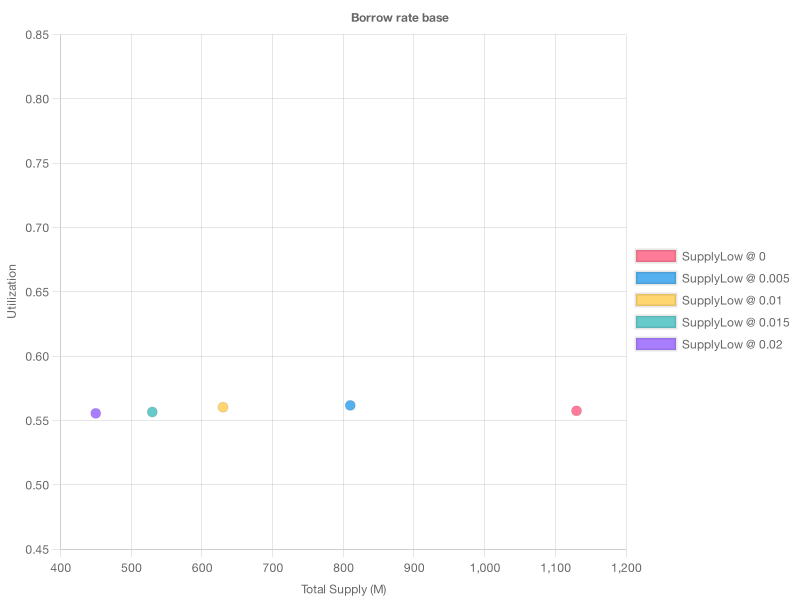
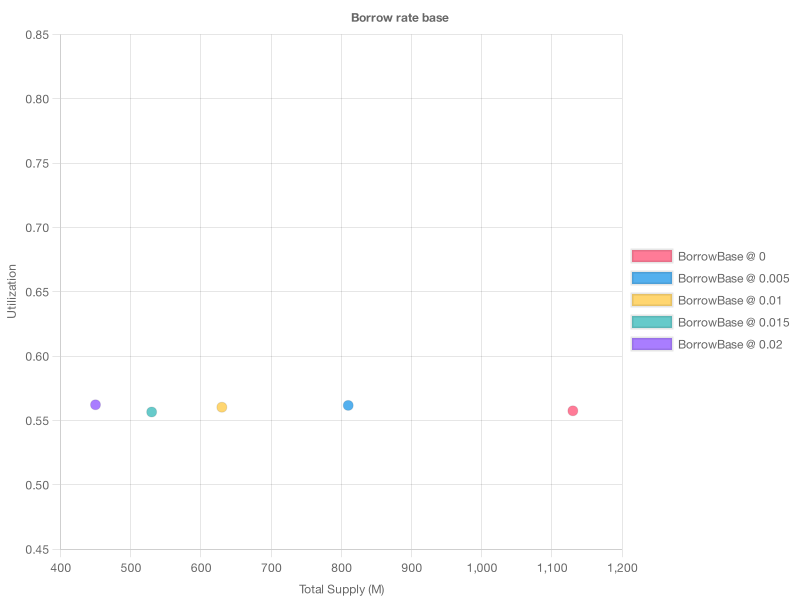
Fix chart labels and add annual protocol profit calculations

diff --git a/simulation/index.ts b/simulation/index.ts
@@ -108,9 +108,10 @@ export async function run() {
     const snapshot = (await runSimulation(params)).slice(-1)[0];
     console.log('Equilibrium for supply slope low: ', params.supplyInterestRateSlopeLow);
     console.log(snapshot);
-    simResults[`SupplyLow @ ${defactor(params.supplyInterestRateSlopeLow)}`] = {
+    simResults[`SupplySlopeLow @ ${defactor(params.supplyInterestRateSlopeLow)}`] = {
       utilization: snapshot.market.utilization,
-      totalSupply: Number(snapshot.market.totalSupply / exp(1, 6)),
+      totalSupply: Number(snapshot.market.totalSupply) / 1_000_000,
+      annualProfit: snapshot.market.annualProfit / 1_000_000,
     }
   }
   await createChart(simResults, 'Supply rate slope low');
@@ -121,9 +122,10 @@ export async function run() {
     const snapshot = (await runSimulation(params)).slice(-1)[0];
     console.log('Equilibrium for borrow slope low: ', params.borrowInterestRateSlopeLow);
     console.log(snapshot);
-    simResults[`SupplyLow @ ${defactor(params.borrowInterestRateSlopeLow)}`] = {
+    simResults[`BorrowSlopeLow @ ${defactor(params.borrowInterestRateSlopeLow)}`] = {
       utilization: snapshot.market.utilization,
       totalSupply: Number(snapshot.market.totalSupply / exp(1, 6)),
+      annualProfit: snapshot.market.annualProfit,
     }
   }
   await createChart(simResults, 'Borrow rate slope low');
@@ -134,9 +136,10 @@ export async function run() {
     const snapshot = (await runSimulation(params)).slice(-1)[0];
     console.log('Equilibrium for borrow base: ', params.borrowInterestRateBase);
     console.log(snapshot);
-    simResults[`SupplyLow @ ${defactor(params.borrowInterestRateBase)}`] = {
+    simResults[`BorrowBase @ ${defactor(params.borrowInterestRateBase)}`] = {
       utilization: snapshot.market.utilization,
       totalSupply: Number(snapshot.market.totalSupply / exp(1, 6)),
+      annualProfit: snapshot.market.annualProfit,
     }
   }
   await createChart(simResults, 'Borrow rate base');

diff --git a/simulation/Simulate.ts b/simulation/Simulate.ts
@@ -11,9 +11,12 @@ function shuffle(arr) {
 }
 
 async function snapshot(world: World, market: Market, round: number) {
+  const rates = await market.currentRates();
+  const tvl = await market.currentTvl();
+  const protocolProfit = Number(tvl.totalBorrow) * rates.borrowRate - Number(tvl.totalSupply) * rates.supplyRate;
   return {
     world: await world.prevailingRates(),
-    market: { ...(await market.currentRates()), ...(await market.currentTvl()) },
+    market: { ...(await market.currentRates()), ...(await market.currentTvl()), annualProfit: protocolProfit },
     round,
   };
 }

diff --git a/simulation/Chart.ts b/simulation/Chart.ts
@@ -7,9 +7,11 @@ export interface SimulationResults {
   [label: string]: {
     utilization: number,
     totalSupply: number,
+    annualProfit: number,
   }
 };
 
+// XXX try to convey profitability as well
 function createData(simResults: SimulationResults) {
   const colors = [
     'rgba(255, 99, 132, 0.85)',
